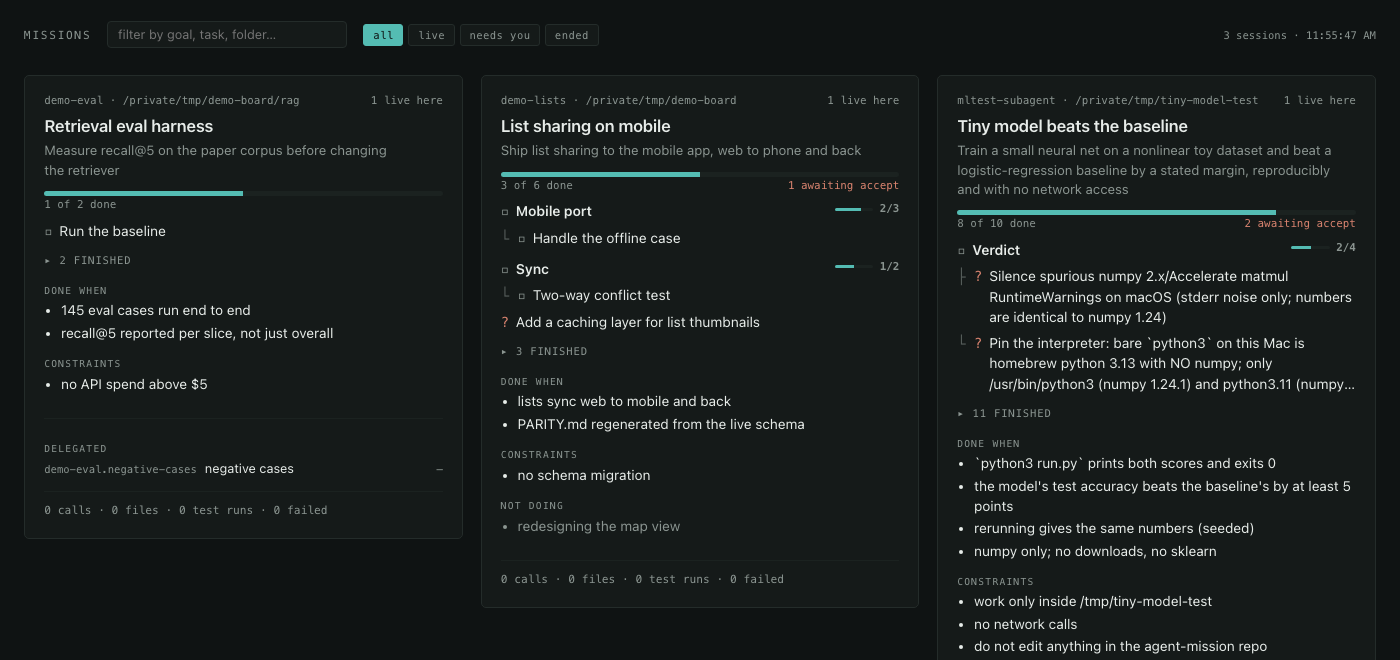
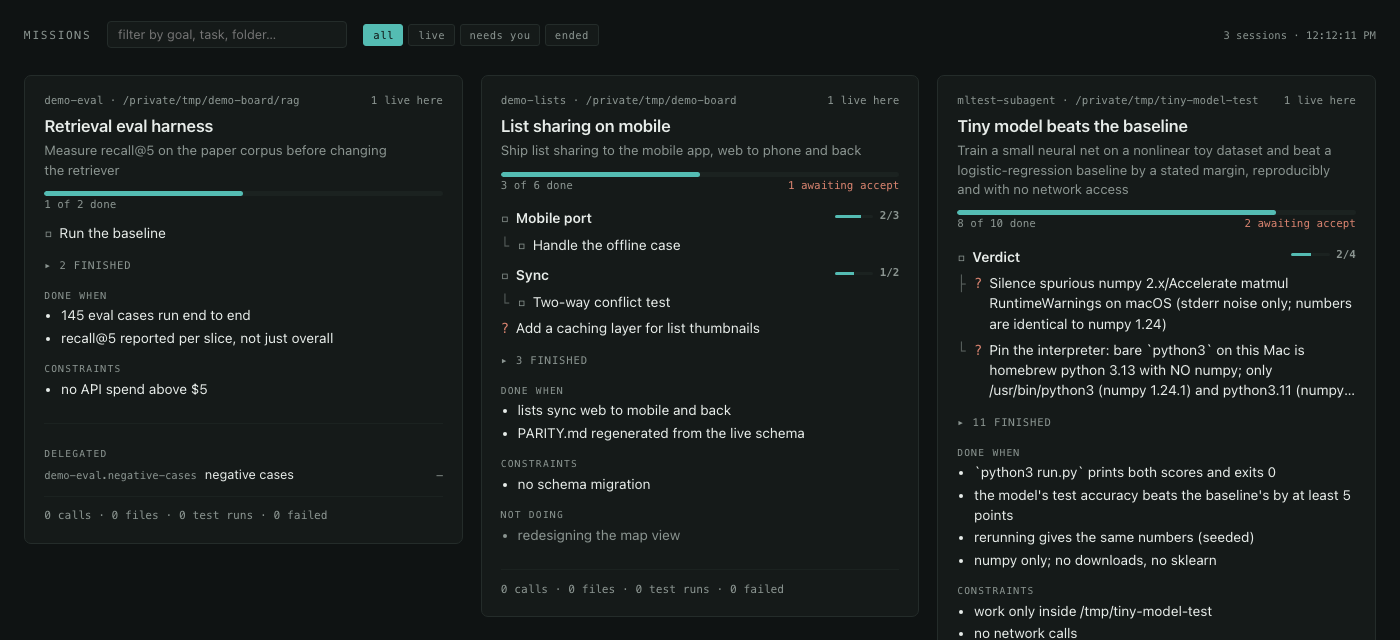
Scroll long lists in place, and stop the card from swallowing the goal
The plan caps at ~10 rows and the finished fold at ~10 more, each
scrolling inside its own block. One session finished 11 items with 4
proposals behind them; unbounded the card ran past the fold and pushed
the goal off the top of the screen, which is the one thing a board whose
whole job is keeping the goal visible must never do.

Three things found by looking at it rather than testing it:
  * a row-level line-through also struck the progress badge, so a
    finished branch read as '1/1' with a line through the number
  * at phone width a long cwd ran straight into '1 live here' with no
    gap, reading as one string
  * the grid's bare 23rem minimum is wider than a 375px phone, so the
    whole page scrolled sideways

diff --git a/agent_mission/board.py b/agent_mission/board.py
@@ -174,11 +174,20 @@ color:var(--mut);font-weight:500;margin:0}
 /* align-items:start, or every card stretches to the tallest in its row and
    short missions render as a title floating above a field of empty card. */
 .grid{display:grid;gap:1.1rem;align-items:start;
-grid-template-columns:repeat(auto-fill,minmax(23rem,1fr))}
-.card{background:var(--card);border:1px solid var(--rule);border-radius:5px;padding:1.1rem 1.2rem}
+/* min(23rem,100%): a bare 23rem minimum is wider than a 375px phone, so the
+   whole page scrolled sideways. */
+grid-template-columns:repeat(auto-fill,minmax(min(23rem,100%),1fr))}
+.card{background:var(--card);border:1px solid var(--rule);border-radius:7px;
+padding:1.1rem 1.2rem;transition:border-color .15s ease,transform .15s ease}
+.card:hover{border-color:var(--mut)}
 .card.ended{opacity:.62}
+/* A long cwd used to run straight into "1 live here" at narrow widths --
+   they are separate facts and read as one string. Gap, and the path is the
+   half that truncates. */
 .sid{font-family:var(--mono);font-size:.68rem;color:var(--mut);display:flex;
-justify-content:space-between;margin-bottom:.5rem}
+justify-content:space-between;gap:.75rem;margin-bottom:.5rem}
+.sid>span:first-child{overflow:hidden;text-overflow:ellipsis;white-space:nowrap}
+.sid>span:last-child{flex:none}
 .obj{font-size:1.05rem;line-height:1.35;font-weight:600;margin:0 0 .25rem;
 text-wrap:pretty;letter-spacing:-.008em}
 .objsub{font-size:.83rem;line-height:1.45;color:var(--mut);margin:0 0 .7rem;text-wrap:pretty}
@@ -200,7 +209,8 @@ line-height:1.45}
 opacity:.55;white-space:pre;-webkit-user-select:none;user-select:none}
 .chk .box{flex:none;font-family:var(--mono);color:var(--mut);padding-right:.42rem}
 .chk li.done{color:var(--mut)}
-.chk li.done .txt{text-decoration:line-through;text-decoration-color:var(--rule)}
+.chk li.done .txt{text-decoration:line-through;
+text-decoration-color:var(--rule);text-decoration-thickness:1px}
 .chk li.done .box{color:var(--ok)}
 .chk li.prop .box{color:var(--bad)}
 .chk li.branch{font-weight:600;margin-top:.42rem}
@@ -215,9 +225,15 @@ padding-left:.6rem;display:flex;align-items:center;gap:.4rem}
 .chk .mini{width:2.4rem;height:3px;background:var(--soft);border-radius:2px;overflow:hidden}
 .chk .mini i{display:block;height:100%;background:var(--ok)}
 .box{font-family:var(--mono);color:var(--mut);flex:none}
-.chk li.done{color:var(--mut);text-decoration:line-through}
-.chk li.done .box{color:var(--ok);text-decoration:none}
+/* Strike the TEXT, never the row: a row-level rule also struck the progress
+   badge, so a finished branch read as "1/1" with a line through the number. */
+.chk li.done{color:var(--mut)}
+.chk li.done .box{color:var(--ok)}
 .chk li.prop .box{color:var(--bad)}
+/* A proposal is the one row asking something of the reader, so it gets the
+   only accent in the list. */
+.chk li.prop{color:var(--ink)}
+.chk li:not(.branch):hover{background:var(--soft);border-radius:3px}
 .doneblock{margin-top:.3rem}
 .doneblock summary{font-family:var(--mono);font-size:.66rem;letter-spacing:.06em;
 color:var(--mut);cursor:pointer;list-style:none;padding:.2rem 0;text-transform:uppercase}
@@ -227,7 +243,8 @@ color:var(--mut);cursor:pointer;list-style:none;padding:.2rem 0;text-transform:u
 .doneblock summary:hover{color:var(--ink)}
 .chk.flat li{padding-left:.1rem}
 .bar{height:5px;background:var(--soft);border-radius:3px;overflow:hidden;margin:.55rem 0 .1rem}
-.bar i{display:block;height:100%;background:var(--ok)}
+.bar i{display:block;height:100%;background:var(--ok);border-radius:3px;
+transition:width .4s cubic-bezier(.4,0,.2,1)}
 .meta{font-family:var(--mono);font-size:.7rem;color:var(--mut);margin-top:.75rem;
 padding-top:.6rem;border-top:1px solid var(--soft);line-height:1.7}
 .warn{color:var(--bad)}
@@ -244,6 +261,17 @@ padding:.2rem 0;-webkit-user-select:none;user-select:none}
 .doneblock[open] summary::before{content:"▾ "}
 .doneblock summary:hover{color:var(--ink)}
 .chk.flat{padding-left:.1rem;opacity:.85}
+/* Both lists scroll inside their own block rather than growing the card.
+   One session here finished 11 items and proposed 4 more; unbounded, the
+   card ran past the fold and the goal at the top scrolled out of sight —
+   which is the one thing the board must never do. ~10 rows, then scroll. */
+.chk{max-height:15.5rem;overflow-y:auto;overscroll-behavior:contain}
+.doneblock .chk{max-height:14rem}
+.chk::-webkit-scrollbar{width:7px}
+.chk::-webkit-scrollbar-thumb{background:var(--rule);border-radius:4px}
+.chk::-webkit-scrollbar-thumb:hover{background:var(--mut)}
+.chk::-webkit-scrollbar-track{background:transparent}
+.chk{scrollbar-width:thin;scrollbar-color:var(--rule) transparent}
 /* Header stays put; only the board scrolls, so search and the counts are
    reachable however far down you are. */
 header{position:sticky;top:0;z-index:5;background:var(--bg);padding-bottom:.7rem;

diff --git a/README.md b/README.md
@@ -252,6 +252,12 @@ together, refreshing:
 - measured activity: calls, files changed, test runs, failed calls
 - sessions with no mission say so, and tell you the command
 
+**Long lists scroll inside their own block.** The plan caps at about ten rows
+and the finished fold at ten more, each scrolling in place rather than growing
+the card — one session here finished eleven items with four proposals behind
+them, and unbounded the card ran past the fold and pushed the goal off the top
+of the screen, which is the one thing the board must never do.
+
 **Search and filter.** The header carries a search box — matching the goal,
 every task in the plan, the criteria, the folder and the session id, because
 the case that matters is looking for a task you half remember across a board of
